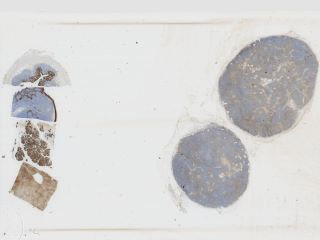
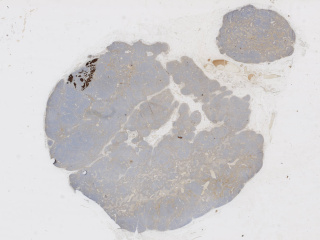
Publish BRLN, and update sample images.

diff --git a/_datasets/10.23698/aida/brln.md b/_datasets/10.23698/aida/brln.md
@@ -1,5 +1,5 @@
 ---
-hidden: yes
+hidden: no
 datacite:
   "@context": "http://schema.org"
   "@type": "Dataset"
@@ -100,20 +100,20 @@ other:
     - Hamamatsu NanoZoomer S60
   stain: "Hematoxylin and eosin. In sentinel node cases also immunohistochemical stain  for cytokeratin AE1/AE3."
   phase:
-  image: "/assets/images/10.23698/aida/brln/ckae-overview-thumbnail.jpeg"
+  image: "/assets/images/10.23698/aida/brln/ckae-metastasis-thumbnail.jpeg"
   exampleImage:
-    - title: "Overview of whole slide imaging with cytokeratin immunostaining."
-      url: "/assets/images/10.23698/aida/brln/ckae-overview.jpeg"
-      thumbnail-url: "/assets/images/10.23698/aida/brln/ckae-overview-thumbnail.jpeg"
-    - title: "To-scale view of pixel resolution in original whole slide imaging data from cytokeratin immunostaining."
-      url: "/assets/images/10.23698/aida/brln/ckae-to-scale.jpeg"
-      thumbnail-url: "/assets/images/10.23698/aida/brln/ckae-to-scale-thumbnail.jpeg"
     - title: "Overview of whole slide imaging with hematoxylin and eosin staining."
       url: "/assets/images/10.23698/aida/brln/he-overview.jpeg"
       thumbnail-url: "/assets/images/10.23698/aida/brln/he-overview-thumbnail.jpeg"
-    - title: "To-scale view of pixel resolution in original whole slide imaging data from hematoxylin and eosin staining."
-      url: "/assets/images/10.23698/aida/brln/he-to-scale.jpeg"
-      thumbnail-url: "/assets/images/10.23698/aida/brln/he-to-scale-thumbnail.jpeg"
+    - title: "Overview of whole slide imaging with cytokeratin immunostaining."
+      url: "/assets/images/10.23698/aida/brln/ckae-overview.jpeg"
+      thumbnail-url: "/assets/images/10.23698/aida/brln/ckae-overview-thumbnail.jpeg"
+    - title: "Detail view of metastasis with hematoxylin and eosin staining."
+      url: "/assets/images/10.23698/aida/brln/he-metastasis.jpeg"
+      thumbnail-url: "/assets/images/10.23698/aida/brln/he-metastasis-thumbnail.jpeg"
+    - title: "Detail view of metastasis with cytokeratin immunostaining."
+      url: "/assets/images/10.23698/aida/brln/ckae-metastasis.jpeg"
+      thumbnail-url: "/assets/images/10.23698/aida/brln/ckae-metastasis-thumbnail.jpeg"
 ---
 ## License
 Copyright
